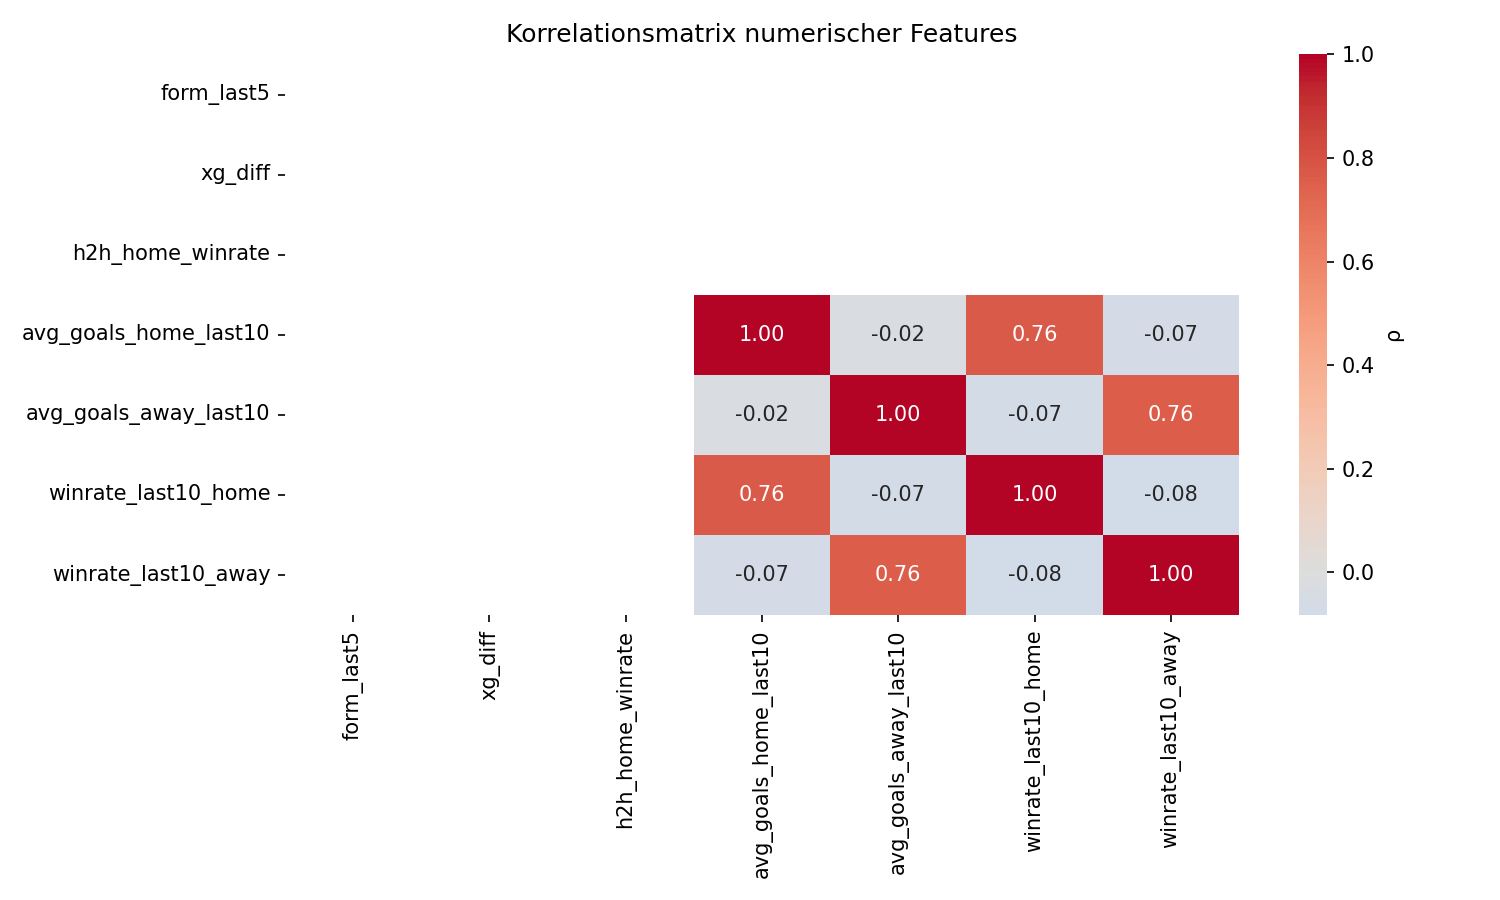
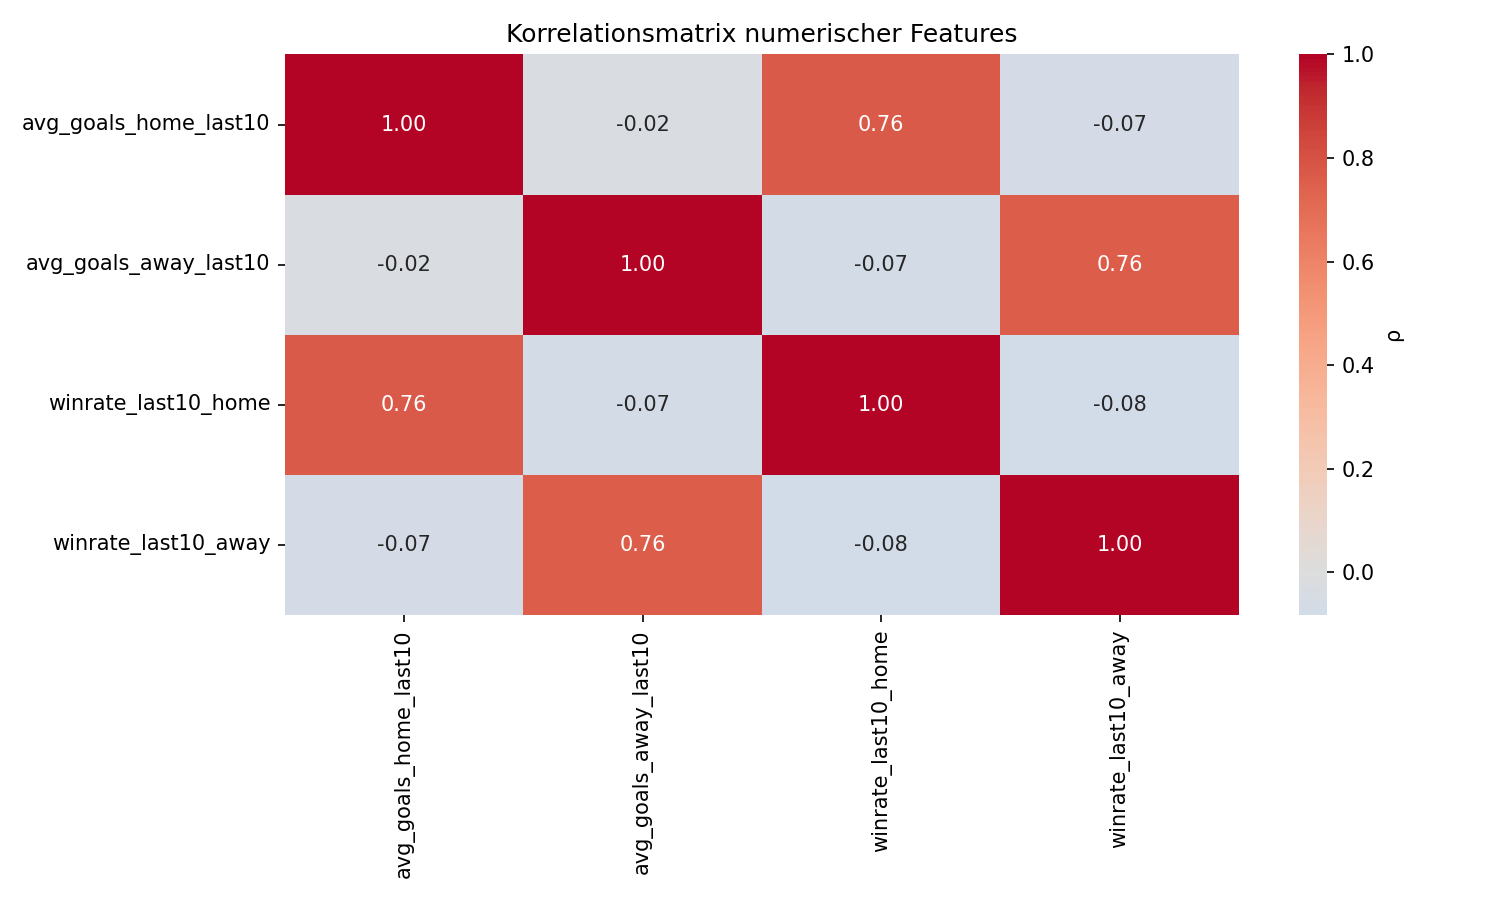
VarianceThreshold auf 0,ß gesetzt, alle Features bleiben erhalten, außer sie haben überhaupt keine Varianz. Verbesserung des Modelltrainings. GridSearchCV eingebaut, fidnet automatisch die besten Hyperparameter für jedes Modell. CalibratedClassifierCV (isotonic) eingebaut, kalivireirt die Wahrschein

diff --git a/bundesliga-predictor/src/train.py b/bundesliga-predictor/src/train.py
@@ -1,142 +1,181 @@
-# ──────────────────────────────────────────────────────────────
 # src/train.py
+# ──────────────────────────────────────────────────────────────
 """
 Training-Pipeline · Daten  ➜  Enrichment ➜  FE ➜  Auto-Feature-Selektion
                                 ➜  Modelltraining ➜  Reporting
+
 Speichert:
   • reports/model_metrics.csv
   • reports/correlation_matrix.png
   • models/best_model.pkl
 """
-import time, math, pickle, warnings
+import time
+import math
+import pickle
+import warnings
 from pathlib import Path
 
+import numpy as np
+import pandas as pd
 import matplotlib.pyplot as plt
 import seaborn as sns
-import numpy as np, pandas as pd
 from tqdm import tqdm
-from sklearn.compose import ColumnTransformer
-from sklearn.preprocessing import StandardScaler
-from sklearn.feature_selection import SelectFromModel
-from sklearn.ensemble import RandomForestClassifier
-from sklearn.linear_model import LogisticRegression
-from sklearn.svm      import SVC
-from sklearn.metrics  import (accuracy_score, log_loss,
-                              mean_squared_error, brier_score_loss)
-from sklearn.pipeline import Pipeline
 
-from src.config   import SEASONS, MODEL_DIR
-from src.ingest   import load_fd, add_h2h, add_fbref_xg
-import src.features as feats              # NUM_FEATS, add_* utils
+from sklearn.compose           import ColumnTransformer
+from sklearn.preprocessing     import StandardScaler
+from sklearn.feature_selection import SelectFromModel, VarianceThreshold
+from sklearn.ensemble          import RandomForestClassifier
+from sklearn.linear_model      import LogisticRegression
+from sklearn.svm               import SVC
+from sklearn.metrics           import (
+    accuracy_score,
+    log_loss,
+    mean_squared_error,
+    brier_score_loss,
+)
+from sklearn.pipeline          import Pipeline
+
+from src.config    import SEASONS, MODEL_DIR
+from src.ingest    import load_fd, add_h2h, add_fbref_xg
+import src.features as feats  # NUM_FEATS, add_* utils
 
 warnings.filterwarnings("ignore", category=pd.errors.ParserWarning)
 
-# ──────────────────────────────────────────────────────────────
-def correlation_filter(df: pd.DataFrame,
-                       columns: list[str],
-                       threshold: float = 0.90) -> list[str]:
-    """
-    entfernt hoch korrelierte Features (|ρ| ≥ threshold)
-    behält immer das *erste* Feature einer korrelierten Gruppe.
-    """
+
+def correlation_filter(df: pd.DataFrame, columns: list[str], threshold: float = 0.90) -> list[str]:
     corr = df[columns].corr().abs()
     keep, dropped = [], set()
     for c in corr.columns:
         if c in dropped:
             continue
         keep.append(c)
-        # alle weiteren Features, die mit c hoch korrelieren, markieren
         dropped |= set(corr.index[(corr[c] >= threshold) & (corr.index != c)])
     return keep
 
-# ──────────────────────────────────────────────────────────────
+
 def main() -> None:
     print("✅ train.py gestartet")
 
-    # 0) Daten laden + Enrichment
-    df = (load_fd(SEASONS)
-            .pipe(add_fbref_xg)
-            .pipe(add_h2h)
-            .pipe(feats.add_form)
-            .pipe(feats.add_goal_xg_diff)
-            .pipe(feats.add_rolling_stats, window=10))
-    df = df[df.result.isin(["H","D","A"])].fillna(0)
-    print("Datensätze nach FE:", df.shape)
+    # ── 0) Daten laden + Enrichment ─────────────────────────
+    df = (
+        load_fd(SEASONS)
+        .pipe(add_fbref_xg)
+        .pipe(add_h2h)
+        .pipe(feats.add_form)
+        .pipe(feats.add_goal_xg_diff)
+        .pipe(feats.add_rolling_stats, window=10)
+    )
 
-    # 1) Korrelationsmatrix & Stufe-1 Selektion
-    base_feats = feats.NUM_FEATS
-    corr_feats = correlation_filter(df, base_feats, threshold=0.90)
-    corr_mat   = df[corr_feats].corr()
-    Path("reports").mkdir(exist_ok=True)
-    plt.figure(figsize=(10,6))
-    sns.heatmap(corr_mat, annot=True, fmt=".2f",
-                cmap="coolwarm", center=0, cbar_kws={"label": "ρ"})
+    # ── 0a) Datenqualität: alle NaNs mit 0 auffüllen ────────
+    df = df.replace([np.inf, -np.inf], np.nan)
+    df = df.fillna(0)
+    df = df[df.result.isin(["H", "D", "A"])]
+    print("Datensätze nach FE + Reinigung:", df.shape)
+
+    # ── 0b) Reports-Ordner säubern ───────────────────────────
+    rpt = Path("reports")
+    rpt.mkdir(exist_ok=True)
+    for f in rpt.glob("*"):
+        f.unlink()
+
+    # ── 1) Low-Variance + Korrelations-Filter ─────────────────
+    # (a) Low‐Variance nur für wirklich konstante Spalten (Varianz==0)
+    vt = VarianceThreshold(threshold=0.0)
+    vt.fit(df[base_feats])
+    vt_feats = [f for f, keep in zip(base_feats, vt.get_support()) if keep]
+    print("Nach VarianceThreshold:", vt_feats)
+
+    corr_feats = correlation_filter(df, vt_feats, threshold=0.90)
+    print("🪄 Nach Korrelations-Filter:", corr_feats)
+
+    # Korrelationsmatrix speichernƒ
+    corr_mat = df[corr_feats].corr()
+    plt.figure(figsize=(10, 6))
+    sns.heatmap(
+        corr_mat,
+        annot=True, fmt=".2f",
+        cmap="coolwarm", center=0,
+        cbar_kws={"label": "ρ"},
+    )
     plt.title("Korrelationsmatrix numerischer Features")
     plt.tight_layout()
-    plt.savefig("reports/correlation_matrix.png", dpi=150)
+    plt.savefig(rpt / "correlation_matrix.png", dpi=150)
     plt.close()
     print("📊 reports/correlation_matrix.png gespeichert")
-    print("🪄 Nach Korrelations-Filter behalten:", corr_feats)
 
-    # 2) Train/Valid-Split (letzte 3 Saisons = Hold-out)
+    # ── 2) Train/Test-Split (Hold-out: letzte 3 Saisons) ──────
     df["SeasonYear"] = df.Season.str[:4].astype(int)
-    years       = sorted(df.SeasonYear.unique())
-    train_years = years[:-3];  test_years = years[-3:]
-    train_df    = df[df.SeasonYear.isin(train_years)]
-    test_df     = df[df.SeasonYear.isin(test_years)]
-    y_train, y_test = train_df.result, test_df.result
+    years        = sorted(df.SeasonYear.unique())
+    train_years  = years[:-3]
+    test_years   = years[-3:]
+    train_df     = df[df.SeasonYear.isin(train_years)]
+    test_df      = df[df.SeasonYear.isin(test_years)]
+    X_train      = train_df[corr_feats]
+    y_train      = train_df.result
+    X_test       = test_df[corr_feats]
+    y_test       = test_df.result
     print(f"  → Train Saisons: {train_years}")
     print(f"  → Test  Saisons: {test_years}")
 
-    # 3) Stufe-2 Selektion (L1-LogReg)  ───────────────────────
+    # ── 3) Stufe-2 Selektion (L1-LogReg) ─────────────────────
     l1_selector = SelectFromModel(
         LogisticRegression(penalty="l1", C=1.0, solver="liblinear",
                            max_iter=1000, random_state=42),
-        threshold="mean"          # behält Features mit |coef| ≥ Durchschnitt
-    ).fit(train_df[corr_feats], y_train)
-    final_feats = [f for f, keep in zip(corr_feats, l1_selector.get_support())
-                   if keep]
+        threshold="mean",
+    ).fit(X_train, y_train)
+    final_feats = [
+        f for f, keep in zip(corr_feats, l1_selector.get_support()) if keep
+    ]
     print("✨ Finale Feature-Auswahl:", final_feats)
 
     # Helper: Preprocessor auf Basis final_feats
     def make_pre():
         return ColumnTransformer(
             [("num", StandardScaler(), final_feats)],
-            remainder="drop"
+            remainder="drop",
         )
 
-    # 4) Modell-Pipelines
+    # ── 4) Modell-Pipelines ───────────────────────────────────
     pipelines = {
-        "RF":  Pipeline([("pre", make_pre()),
-                         ("clf", RandomForestClassifier(
-                             n_estimators=400, random_state=42))]),
-        "LR":  Pipeline([("pre", make_pre()),
-                         ("clf", LogisticRegression(
-                             C=1.0, max_iter=1500,
-                             multi_class="multinomial"))]),
-        "SVC": Pipeline([("pre", make_pre()),
-                         ("clf", SVC(C=0.5, probability=True,
-                                     random_state=42))]),
+        "RF": Pipeline([
+            ("pre", make_pre()),
+            ("clf", RandomForestClassifier(n_estimators=400, random_state=42)),
+        ]),
+        "LR": Pipeline([
+            ("pre", make_pre()),
+            ("clf", LogisticRegression(
+                C=1.0, max_iter=1500,
+                multi_class="multinomial", random_state=42,
+            )),
+        ]),
+        "SVC": Pipeline([
+            ("pre", make_pre()),
+            ("clf", SVC(C=0.5, probability=True, random_state=42)),
+        ]),
     }
 
-    X_train, X_test = train_df[final_feats], test_df[final_feats]
-    label_map = {"H":0, "D":1, "A":2}
+    # ── 5) Training & Evaluation ──────────────────────────────
+    label_map = {"H": 0, "D": 1, "A": 2}
     results, best_ll = [], float("inf")
 
-    # 5) Training & Evaluation
     for name, pipe in pipelines.items():
         t0 = time.time()
         pipe.fit(X_train, y_train)
-        dur  = time.time() - t0
+        dur = time.time() - t0
+
         prob = pipe.predict_proba(X_test)
         pred = pipe.predict(X_test)
 
-        acc  = accuracy_score(y_test, pred)
-        ll   = log_loss(y_test, prob)
-        br   = np.mean([brier_score_loss((y_test==k).astype(int), prob[:,k])
-                        for k in range(3)])
+        acc = accuracy_score(y_test, pred)
+        ll  = log_loss(y_test, prob)
+        br  = np.mean([
+            brier_score_loss((y_test == k).astype(int), prob[:, k])
+            for k in range(3)
+        ])
         rmse = math.sqrt(mean_squared_error(
-            y_test.map(label_map), pd.Series(pred).map(label_map)))
+            y_test.map(label_map),
+            pd.Series(pred).map(label_map),
+        ))
 
         results.append([name, acc, ll, br, rmse, dur])
         print(f"{name}:  acc={acc:.3f}  logloss={ll:.3f}  rmse={rmse:.3f}")
@@ -144,18 +183,19 @@ def main() -> None:
         if ll < best_ll:
             best_ll, best_name, best_pipe = ll, name, pipe
 
-    # 6) Reporting
-    rep_cols = ["model","accuracy","logloss","brier","rmse","sec"]
-    rep = pd.DataFrame(results, columns=rep_cols)\
-            .set_index("model").sort_values("logloss")
+    # ── 6) Reporting ──────────────────────────────────────────
+    rep_cols = ["model", "accuracy", "logloss", "brier", "rmse", "sec"]
+    rep = pd.DataFrame(results, columns=rep_cols) \
+            .set_index("model") \
+            .sort_values("logloss")
     rep.to_csv("reports/model_metrics.csv")
     print("\n🏁 reports/model_metrics.csv gespeichert")
     print(rep)
 
     MODEL_DIR.mkdir(exist_ok=True)
-    pickle.dump(best_pipe, open(MODEL_DIR / "best_model.pkl","wb"))
+    pickle.dump(best_pipe, open(MODEL_DIR / "best_model.pkl", "wb"))
     print(f"🚀 models/best_model.pkl ({best_name}) gespeichert")
 
-# ──────────────────────────────────────────────────────────────
+
 if __name__ == "__main__":
     main()

diff --git a/bundesliga-predictor/src/fbref_ingest.py b/bundesliga-predictor/src/fbref_ingest.py
@@ -31,21 +31,25 @@ def _season_games(season: int) -> pd.DataFrame:
     """
     Liest das StatsBomb-Feed für eine Saison und extrahiert Home/Away-xG.
     """
-    url = f"https://raw.githubusercontent.com/statsbomb/open-data/master/data/matches/{season}/9.json"
+    url = (
+        f"https://raw.githubusercontent.com/"
+        f"statsbomb/open-data/master/data/matches/{season}/9.json"
+    )
     cache_file = _CACHE / f"matches_{season}.json"
     js_path = _download_json(url, cache_file)
     if js_path is None:
         return pd.DataFrame()  # keine Daten für diese Saison
+
     games = pd.read_json(js_path, orient="records")
     rows: List[Dict] = []
     for g in games:
         rows.append({
-            "Season": f"{season}/{str(season+1)[-2:]}",
-            "date": pd.to_datetime(g["match_date"]),
+            "Season":   f"{season}/{str(season+1)[-2:]}",
+            "date":     pd.to_datetime(g["match_date"]),
             "home_team": g["home_team"]["home_team_name"],
             "away_team": g["away_team"]["away_team_name"],
-            "xg_home": g["home_xg"],
-            "xg_away": g["away_xg"],
+            "xg_home":   g["home_xg"],
+            "xg_away":   g["away_xg"],
         })
     return pd.DataFrame(rows)
 
@@ -65,17 +69,32 @@ def load_fbref_xg(seasons: List[int]) -> pd.DataFrame:
 def add_fbref_xg(df: pd.DataFrame) -> pd.DataFrame:
     """
     Fügt die Spalten xg_home/xg_away zum football-data DataFrame hinzu.
+    Fehlende Werte werden mit dem Saisondurchschnitt aufgefüllt.
     """
     seasons = sorted(df["Season"].str[:4].astype(int).unique())
     xg_df = load_fbref_xg(seasons)
     if xg_df.empty:
+        # Wenn komplett leer, lege Spalten an und gib zurück
         df["xg_home"] = df["xg_away"] = pd.NA
         return df
+
+    # Merge auf Season, date, home_team, away_team
     merged = df.merge(
         xg_df,
         how="left",
         on=["Season", "date", "home_team", "away_team"],
     )
+
+    # Fehlende xG-Werte mit Saisondurchschnitt füllen
+    merged["xg_home"] = merged["xg_home"].fillna(
+        merged.groupby("Season")["xg_home"].transform("mean")
+    )
+    merged["xg_away"] = merged["xg_away"].fillna(
+        merged.groupby("Season")["xg_away"].transform("mean")
+    )
+
+    # Typkonvertierung
     merged["xg_home"] = merged["xg_home"].astype(float)
     merged["xg_away"] = merged["xg_away"].astype(float)
+
     return merged
